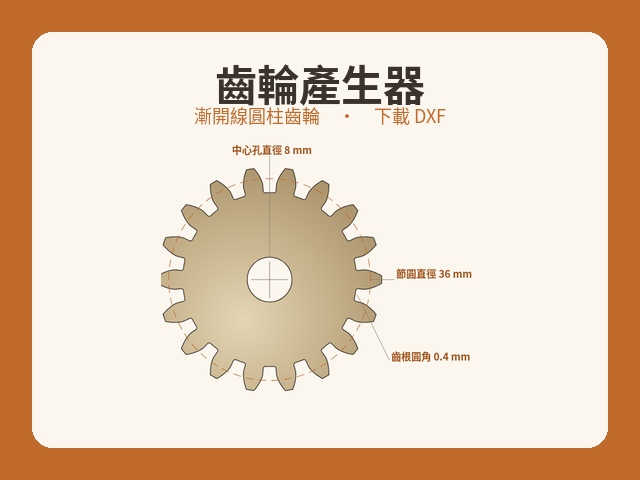
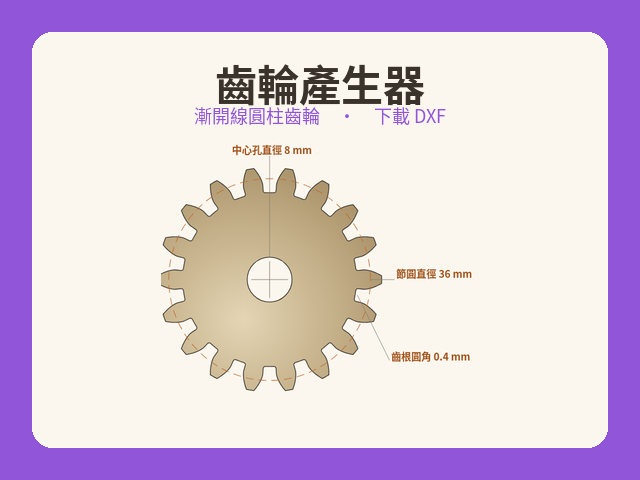
Use the purple frame on the gear generator card (#32)
Replace the 齒輪產生器 card with the exact 640×480 purple-framed asset, bump its cache-buster to 20261111b, and add the matching #9155D9 tile token.

Changed region(s): [[0.0, 0.0, 1.0, 1.0], [0.3125, 0.2188, 0.5, 0.2812], [0.5938, 0.2188, 0.6875, 0.2812]]

diff --git a/tokens.css b/tokens.css
@@ -34,6 +34,8 @@
   --tile-3dsoon: #56AB68;
   /* Designer-chairs plate — same purple as the product candy tile */
   --tile-chairs: #9155D9;
+  /* Gear generator — same purple frame as designer-chairs */
+  --tile-gear-gen: #9155D9;
   /* 3D software hub — yellow plate baked into card_3d-software.png */
   --tile-3dsoftware: #E3C360;
   /* Kalimba — same warm orange as production / prompt cards; sits between purple chairs and pink student-works */
@@ -83,6 +85,7 @@
 .tile-esp32 { background: var(--tile-esp32); }
 .tile-3dsoon { background: var(--tile-3dsoon); }
 .tile-chairs { background: var(--tile-chairs); }
+.tile-gear-gen { background: var(--tile-gear-gen); }
 .tile-3dsoftware { background: var(--tile-3dsoftware); }
 .tile-kalimba { background: var(--tile-kalimba); }
 .tile-activity { background: var(--tile-activity); }

diff --git a/index.html b/index.html
@@ -501,7 +501,7 @@
     <div class="grid">
       <a class="card" href="https://dat-fgss.github.io/gear-gen/" target="_blank" rel="noopener">
         <div class="card-face tile-gear-gen">
-          <img src="assets/cards/card_gear-gen.png?v=20261111a" alt="" />
+          <img src="assets/cards/card_gear-gen.png?v=20261111b" alt="" />
         </div>
         <div class="card-meta">
           <h3>齒輪產生器</h3>
